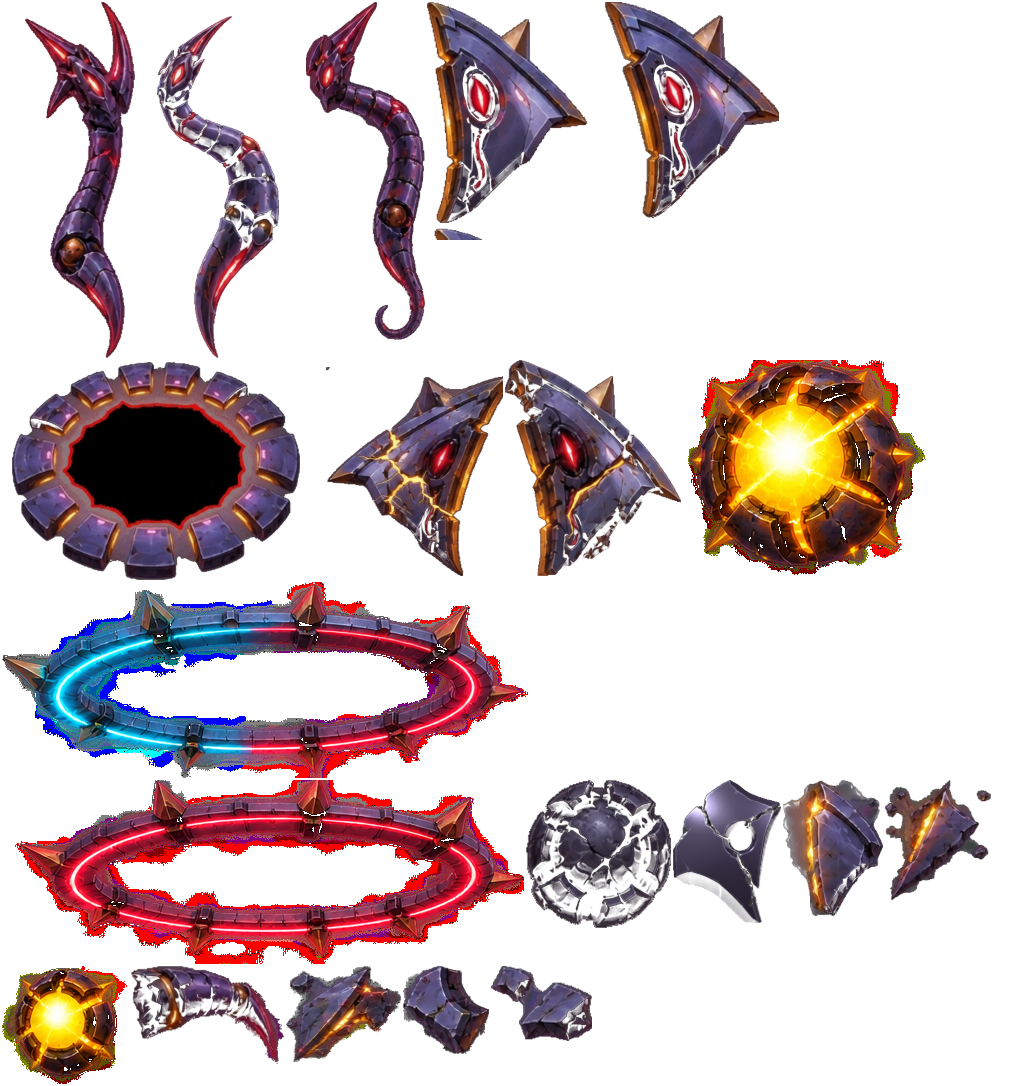
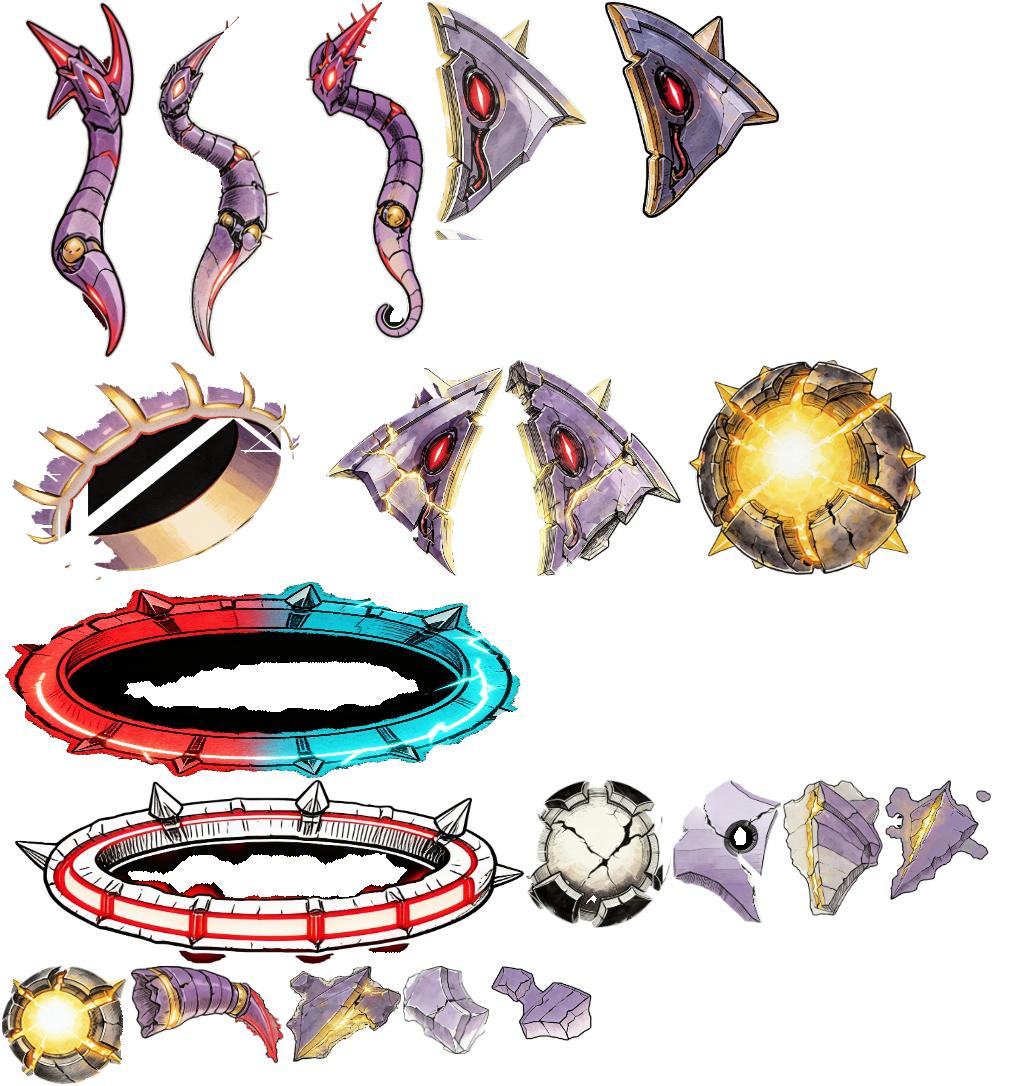
THE CHOIR, PRISM and MOTHER-V redrawn, and the ring that lied about his feet
The last three guardians get their drawn atlases, which completes the cast:
all six parts sheets are now the ink versions and every one of them is
verified through its own rig rather than on the sheet.

The feet check on THE CHOIR failed at exactly +11 px in two unrelated states,
and a constant that identical is never art. It was his lava ring — floor
decoration that spreads 20 px past his claws — being measured as his lowest
lit pixel. G.artProbe exists to switch exactly that off, and the ring was
never gated: the old plate's lower half was too dim to pass the lit test, so
a brighter plate turned a nine-month-old hole into a failure. Now gated, and
the harness measures claws again (-5 px / -1 px).

Also: bossshot now measures a zoom before it draws instead of photographing
guardians at game scale. One zoom for the whole sheet, taken from the largest
pose, so a crouch still reads smaller than a reared roar — and applied to the
context BEFORE draw(), so the atlas is sampled larger and the plate is
sharper rather than blown up afterwards.

Archived the 81 remaining keyed plates at the 1024 tier.
All 45 harnesses green.

diff --git a/index.html b/index.html
@@ -225,7 +225,7 @@
 })();
 </script>
 
-<script>window.BUILD_ID="msztw90a";window.GAME_LOCK="robo";window.MUS_FILES={"ambient_observing_the_star":"assets/music/ambient_observing_the_star.ogg","epic_combat":"assets/music/epic_combat.ogg","mus_alpha":"assets/music/mus_alpha.m4a","mus_alphatame":"assets/music/mus_alphatame.m4a","mus_archives":"assets/music/mus_archives.m4a","mus_boss":"assets/music/mus_boss.m4a","mus_cache":"assets/music/mus_cache.m4a","mus_conduits":"assets/music/mus_conduits.m4a","mus_ending":"assets/music/mus_ending.m4a","mus_eye":"assets/music/mus_eye.m4a","mus_foundry":"assets/music/mus_foundry.m4a","mus_furnace":"assets/music/mus_furnace.m4a","mus_glaciere":"assets/music/mus_glaciere.m4a","mus_intro":"assets/music/mus_intro.m4a","mus_meadows":"assets/music/mus_meadows.m4a","mus_mother":"assets/music/mus_mother.m4a","mus_nest":"assets/music/mus_nest.m4a","mus_nullfang":"assets/music/mus_nullfang.m4a","mus_prism":"assets/music/mus_prism.m4a","mus_talonhost":"assets/music/mus_talonhost.m4a","mus_title":"assets/music/mus_title.m4a"};window.VID_FILES={"end_atlas":"assets/video/end_atlas.mp4","end_brood":"assets/video/end_brood.mp4","end_close":"assets/video/end_close.mp4","end_folk":"assets/video/end_folk.mp4","end_glitch":"assets/video/end_glitch.mp4","end_mother":"assets/video/end_mother.mp4","end_open":"assets/video/end_open.mp4","end_prism":"assets/video/end_prism.mp4","end_zero":"assets/video/end_zero.mp4","intro1":"assets/video/intro1.mp4","intro2":"assets/video/intro2.mp4","intro3":"assets/video/intro3.mp4","intro4":"assets/video/intro4.mp4","intro5":"assets/video/intro5.mp4","intro6":"assets/video/intro6.mp4","intro7":"assets/video/intro7.mp4","intro8":"assets/video/intro8.mp4","purify_atlas":"assets/video/purify_atlas.mp4","purify_brood":"assets/video/purify_brood.mp4","purify_glitch":"assets/video/purify_glitch.mp4","purify_prism":"assets/video/purify_prism.mp4","purify_zero":"assets/video/purify_zero.mp4","sword_forge":"assets/video/sword_forge.mp4","sword_gift":"assets/video/sword_gift.mp4"};window.VID_ALT={"end_atlas":"assets/video/end_atlas.webm","end_brood":"assets/video/end_brood.webm","end_close":"assets/video/end_close.webm","end_folk":"assets/video/end_folk.webm","end_glitch":"assets/video/end_glitch.webm","end_mother":"assets/video/end_mother.webm","end_open":"assets/video/end_open.webm","end_prism":"assets/video/end_prism.webm","end_zero":"assets/video/end_zero.webm","intro1":"assets/video/intro1.webm","intro2":"assets/video/intro2.webm","intro3":"assets/video/intro3.webm","intro4":"assets/video/intro4.webm","intro5":"assets/video/intro5.webm","intro6":"assets/video/intro6.webm","intro7":"assets/video/intro7.webm","intro8":"assets/video/intro8.webm","purify_atlas":"assets/video/purify_atlas.webm","purify_brood":"assets/video/purify_brood.webm","purify_glitch":"assets/video/purify_glitch.webm","purify_prism":"assets/video/purify_prism.webm","purify_zero":"assets/video/purify_zero.webm","sword_forge":"assets/video/sword_forge.webm","sword_gift":"assets/video/sword_gift.webm"};window.VID_LIGHT={
+<script>window.BUILD_ID="mszvhgs2";window.GAME_LOCK="robo";window.MUS_FILES={"ambient_observing_the_star":"assets/music/ambient_observing_the_star.ogg","epic_combat":"assets/music/epic_combat.ogg","mus_alpha":"assets/music/mus_alpha.m4a","mus_alphatame":"assets/music/mus_alphatame.m4a","mus_archives":"assets/music/mus_archives.m4a","mus_boss":"assets/music/mus_boss.m4a","mus_cache":"assets/music/mus_cache.m4a","mus_conduits":"assets/music/mus_conduits.m4a","mus_ending":"assets/music/mus_ending.m4a","mus_eye":"assets/music/mus_eye.m4a","mus_foundry":"assets/music/mus_foundry.m4a","mus_furnace":"assets/music/mus_furnace.m4a","mus_glaciere":"assets/music/mus_glaciere.m4a","mus_intro":"assets/music/mus_intro.m4a","mus_meadows":"assets/music/mus_meadows.m4a","mus_mother":"assets/music/mus_mother.m4a","mus_nest":"assets/music/mus_nest.m4a","mus_nullfang":"assets/music/mus_nullfang.m4a","mus_prism":"assets/music/mus_prism.m4a","mus_talonhost":"assets/music/mus_talonhost.m4a","mus_title":"assets/music/mus_title.m4a"};window.VID_FILES={"end_atlas":"assets/video/end_atlas.mp4","end_brood":"assets/video/end_brood.mp4","end_close":"assets/video/end_close.mp4","end_folk":"assets/video/end_folk.mp4","end_glitch":"assets/video/end_glitch.mp4","end_mother":"assets/video/end_mother.mp4","end_open":"assets/video/end_open.mp4","end_prism":"assets/video/end_prism.mp4","end_zero":"assets/video/end_zero.mp4","intro1":"assets/video/intro1.mp4","intro2":"assets/video/intro2.mp4","intro3":"assets/video/intro3.mp4","intro4":"assets/video/intro4.mp4","intro5":"assets/video/intro5.mp4","intro6":"assets/video/intro6.mp4","intro7":"assets/video/intro7.mp4","intro8":"assets/video/intro8.mp4","purify_atlas":"assets/video/purify_atlas.mp4","purify_brood":"assets/video/purify_brood.mp4","purify_glitch":"assets/video/purify_glitch.mp4","purify_prism":"assets/video/purify_prism.mp4","purify_zero":"assets/video/purify_zero.mp4","sword_forge":"assets/video/sword_forge.mp4","sword_gift":"assets/video/sword_gift.mp4"};window.VID_ALT={"end_atlas":"assets/video/end_atlas.webm","end_brood":"assets/video/end_brood.webm","end_close":"assets/video/end_close.webm","end_folk":"assets/video/end_folk.webm","end_glitch":"assets/video/end_glitch.webm","end_mother":"assets/video/end_mother.webm","end_open":"assets/video/end_open.webm","end_prism":"assets/video/end_prism.webm","end_zero":"assets/video/end_zero.webm","intro1":"assets/video/intro1.webm","intro2":"assets/video/intro2.webm","intro3":"assets/video/intro3.webm","intro4":"assets/video/intro4.webm","intro5":"assets/video/intro5.webm","intro6":"assets/video/intro6.webm","intro7":"assets/video/intro7.webm","intro8":"assets/video/intro8.webm","purify_atlas":"assets/video/purify_atlas.webm","purify_brood":"assets/video/purify_brood.webm","purify_glitch":"assets/video/purify_glitch.webm","purify_prism":"assets/video/purify_prism.webm","purify_zero":"assets/video/purify_zero.webm","sword_forge":"assets/video/sword_forge.webm","sword_gift":"assets/video/sword_gift.webm"};window.VID_LIGHT={
  "end_atlas": "assets/video/light/end_atlas.mp4",
  "end_brood": "assets/video/light/end_brood.mp4",
  "end_close": "assets/video/light/end_close.mp4",
@@ -3004,7 +3004,12 @@ function drawFurnace(c, b) {
     const wakeK2 = b.st === 'intro' ? clamp(1 - (b.t || 0) / 2, 0, 1) : (b.st === 'dorm' ? 0 : 1);
     const ringGate = b.st === 'dorm' ? 0 : b.st === 'intro' ? (b.nestLanded ? 1 : 0) : 1;
     const grounded = Math.abs(b.vy || 0) < 120;
-    if (grounded && ringGate > 0.01) {
+    // The ring is DECORATION PAINTED ON THE FLOOR, spreading 20 px below his
+    // feet, so it is exactly what G.artProbe exists to switch off (entities.js).
+    // It was never gated because the old plate's lower half was too dim to pass
+    // the harness's lit-pixel test; a brighter plate made the same ring measure
+    // as his feet standing 11 px through the ground, in every state, identically.
+    if (grounded && ringGate > 0.01 && !G.artProbe) {
       const rg = DRG_P.ring;
       const hotStat = b.st === 'hymn' || b.st === 'forgebell' || b.st === 'meltwarn';
       const ra = (0.2 + Math.sin(b.anim * 2.6) * 0.07 + (hotStat ? 0.22 : 0) + wk * 0.25) * ringGate;

diff --git a/odyssey.html b/odyssey.html
@@ -225,7 +225,7 @@
 })();
 </script>
 
-<script>window.BUILD_ID="msztw90a";window.GAME_LOCK="hero";window.MUS_FILES={"ambient_observing_the_star":"assets/music/ambient_observing_the_star.ogg","epic_combat":"assets/music/epic_combat.ogg","mus_alpha":"assets/music/mus_alpha.m4a","mus_alphatame":"assets/music/mus_alphatame.m4a","mus_archives":"assets/music/mus_archives.m4a","mus_boss":"assets/music/mus_boss.m4a","mus_cache":"assets/music/mus_cache.m4a","mus_conduits":"assets/music/mus_conduits.m4a","mus_ending":"assets/music/mus_ending.m4a","mus_eye":"assets/music/mus_eye.m4a","mus_foundry":"assets/music/mus_foundry.m4a","mus_furnace":"assets/music/mus_furnace.m4a","mus_glaciere":"assets/music/mus_glaciere.m4a","mus_intro":"assets/music/mus_intro.m4a","mus_meadows":"assets/music/mus_meadows.m4a","mus_mother":"assets/music/mus_mother.m4a","mus_nest":"assets/music/mus_nest.m4a","mus_nullfang":"assets/music/mus_nullfang.m4a","mus_prism":"assets/music/mus_prism.m4a","mus_talonhost":"assets/music/mus_talonhost.m4a","mus_title":"assets/music/mus_title.m4a"};window.VID_FILES={"end_atlas":"assets/video/end_atlas.mp4","end_brood":"assets/video/end_brood.mp4","end_close":"assets/video/end_close.mp4","end_folk":"assets/video/end_folk.mp4","end_glitch":"assets/video/end_glitch.mp4","end_mother":"assets/video/end_mother.mp4","end_open":"assets/video/end_open.mp4","end_prism":"assets/video/end_prism.mp4","end_zero":"assets/video/end_zero.mp4","intro1":"assets/video/intro1.mp4","intro2":"assets/video/intro2.mp4","intro3":"assets/video/intro3.mp4","intro4":"assets/video/intro4.mp4","intro5":"assets/video/intro5.mp4","intro6":"assets/video/intro6.mp4","intro7":"assets/video/intro7.mp4","intro8":"assets/video/intro8.mp4","purify_atlas":"assets/video/purify_atlas.mp4","purify_brood":"assets/video/purify_brood.mp4","purify_glitch":"assets/video/purify_glitch.mp4","purify_prism":"assets/video/purify_prism.mp4","purify_zero":"assets/video/purify_zero.mp4","sword_forge":"assets/video/sword_forge.mp4","sword_gift":"assets/video/sword_gift.mp4"};window.VID_ALT={"end_atlas":"assets/video/end_atlas.webm","end_brood":"assets/video/end_brood.webm","end_close":"assets/video/end_close.webm","end_folk":"assets/video/end_folk.webm","end_glitch":"assets/video/end_glitch.webm","end_mother":"assets/video/end_mother.webm","end_open":"assets/video/end_open.webm","end_prism":"assets/video/end_prism.webm","end_zero":"assets/video/end_zero.webm","intro1":"assets/video/intro1.webm","intro2":"assets/video/intro2.webm","intro3":"assets/video/intro3.webm","intro4":"assets/video/intro4.webm","intro5":"assets/video/intro5.webm","intro6":"assets/video/intro6.webm","intro7":"assets/video/intro7.webm","intro8":"assets/video/intro8.webm","purify_atlas":"assets/video/purify_atlas.webm","purify_brood":"assets/video/purify_brood.webm","purify_glitch":"assets/video/purify_glitch.webm","purify_prism":"assets/video/purify_prism.webm","purify_zero":"assets/video/purify_zero.webm","sword_forge":"assets/video/sword_forge.webm","sword_gift":"assets/video/sword_gift.webm"};window.VID_LIGHT={
+<script>window.BUILD_ID="mszvhgs2";window.GAME_LOCK="hero";window.MUS_FILES={"ambient_observing_the_star":"assets/music/ambient_observing_the_star.ogg","epic_combat":"assets/music/epic_combat.ogg","mus_alpha":"assets/music/mus_alpha.m4a","mus_alphatame":"assets/music/mus_alphatame.m4a","mus_archives":"assets/music/mus_archives.m4a","mus_boss":"assets/music/mus_boss.m4a","mus_cache":"assets/music/mus_cache.m4a","mus_conduits":"assets/music/mus_conduits.m4a","mus_ending":"assets/music/mus_ending.m4a","mus_eye":"assets/music/mus_eye.m4a","mus_foundry":"assets/music/mus_foundry.m4a","mus_furnace":"assets/music/mus_furnace.m4a","mus_glaciere":"assets/music/mus_glaciere.m4a","mus_intro":"assets/music/mus_intro.m4a","mus_meadows":"assets/music/mus_meadows.m4a","mus_mother":"assets/music/mus_mother.m4a","mus_nest":"assets/music/mus_nest.m4a","mus_nullfang":"assets/music/mus_nullfang.m4a","mus_prism":"assets/music/mus_prism.m4a","mus_talonhost":"assets/music/mus_talonhost.m4a","mus_title":"assets/music/mus_title.m4a"};window.VID_FILES={"end_atlas":"assets/video/end_atlas.mp4","end_brood":"assets/video/end_brood.mp4","end_close":"assets/video/end_close.mp4","end_folk":"assets/video/end_folk.mp4","end_glitch":"assets/video/end_glitch.mp4","end_mother":"assets/video/end_mother.mp4","end_open":"assets/video/end_open.mp4","end_prism":"assets/video/end_prism.mp4","end_zero":"assets/video/end_zero.mp4","intro1":"assets/video/intro1.mp4","intro2":"assets/video/intro2.mp4","intro3":"assets/video/intro3.mp4","intro4":"assets/video/intro4.mp4","intro5":"assets/video/intro5.mp4","intro6":"assets/video/intro6.mp4","intro7":"assets/video/intro7.mp4","intro8":"assets/video/intro8.mp4","purify_atlas":"assets/video/purify_atlas.mp4","purify_brood":"assets/video/purify_brood.mp4","purify_glitch":"assets/video/purify_glitch.mp4","purify_prism":"assets/video/purify_prism.mp4","purify_zero":"assets/video/purify_zero.mp4","sword_forge":"assets/video/sword_forge.mp4","sword_gift":"assets/video/sword_gift.mp4"};window.VID_ALT={"end_atlas":"assets/video/end_atlas.webm","end_brood":"assets/video/end_brood.webm","end_close":"assets/video/end_close.webm","end_folk":"assets/video/end_folk.webm","end_glitch":"assets/video/end_glitch.webm","end_mother":"assets/video/end_mother.webm","end_open":"assets/video/end_open.webm","end_prism":"assets/video/end_prism.webm","end_zero":"assets/video/end_zero.webm","intro1":"assets/video/intro1.webm","intro2":"assets/video/intro2.webm","intro3":"assets/video/intro3.webm","intro4":"assets/video/intro4.webm","intro5":"assets/video/intro5.webm","intro6":"assets/video/intro6.webm","intro7":"assets/video/intro7.webm","intro8":"assets/video/intro8.webm","purify_atlas":"assets/video/purify_atlas.webm","purify_brood":"assets/video/purify_brood.webm","purify_glitch":"assets/video/purify_glitch.webm","purify_prism":"assets/video/purify_prism.webm","purify_zero":"assets/video/purify_zero.webm","sword_forge":"assets/video/sword_forge.webm","sword_gift":"assets/video/sword_gift.webm"};window.VID_LIGHT={
  "end_atlas": "assets/video/light/end_atlas.mp4",
  "end_brood": "assets/video/light/end_brood.mp4",
  "end_close": "assets/video/light/end_close.mp4",
@@ -3004,7 +3004,12 @@ function drawFurnace(c, b) {
     const wakeK2 = b.st === 'intro' ? clamp(1 - (b.t || 0) / 2, 0, 1) : (b.st === 'dorm' ? 0 : 1);
     const ringGate = b.st === 'dorm' ? 0 : b.st === 'intro' ? (b.nestLanded ? 1 : 0) : 1;
     const grounded = Math.abs(b.vy || 0) < 120;
-    if (grounded && ringGate > 0.01) {
+    // The ring is DECORATION PAINTED ON THE FLOOR, spreading 20 px below his
+    // feet, so it is exactly what G.artProbe exists to switch off (entities.js).
+    // It was never gated because the old plate's lower half was too dim to pass
+    // the harness's lit-pixel test; a brighter plate made the same ring measure
+    // as his feet standing 11 px through the ground, in every state, identically.
+    if (grounded && ringGate > 0.01 && !G.artProbe) {
       const rg = DRG_P.ring;
       const hotStat = b.st === 'hymn' || b.st === 'forgebell' || b.st === 'meltwarn';
       const ra = (0.2 + Math.sin(b.anim * 2.6) * 0.07 + (hotStat ? 0.22 : 0) + wk * 0.25) * ringGate;

diff --git a/js/furnace.js b/js/furnace.js
@@ -384,7 +384,12 @@ function drawFurnace(c, b) {
     const wakeK2 = b.st === 'intro' ? clamp(1 - (b.t || 0) / 2, 0, 1) : (b.st === 'dorm' ? 0 : 1);
     const ringGate = b.st === 'dorm' ? 0 : b.st === 'intro' ? (b.nestLanded ? 1 : 0) : 1;
     const grounded = Math.abs(b.vy || 0) < 120;
-    if (grounded && ringGate > 0.01) {
+    // The ring is DECORATION PAINTED ON THE FLOOR, spreading 20 px below his
+    // feet, so it is exactly what G.artProbe exists to switch off (entities.js).
+    // It was never gated because the old plate's lower half was too dim to pass
+    // the harness's lit-pixel test; a brighter plate made the same ring measure
+    // as his feet standing 11 px through the ground, in every state, identically.
+    if (grounded && ringGate > 0.01 && !G.artProbe) {
       const rg = DRG_P.ring;
       const hotStat = b.st === 'hymn' || b.st === 'forgebell' || b.st === 'meltwarn';
       const ra = (0.2 + Math.sin(b.anim * 2.6) * 0.07 + (hotStat ? 0.22 : 0) + wk * 0.25) * ringGate;
